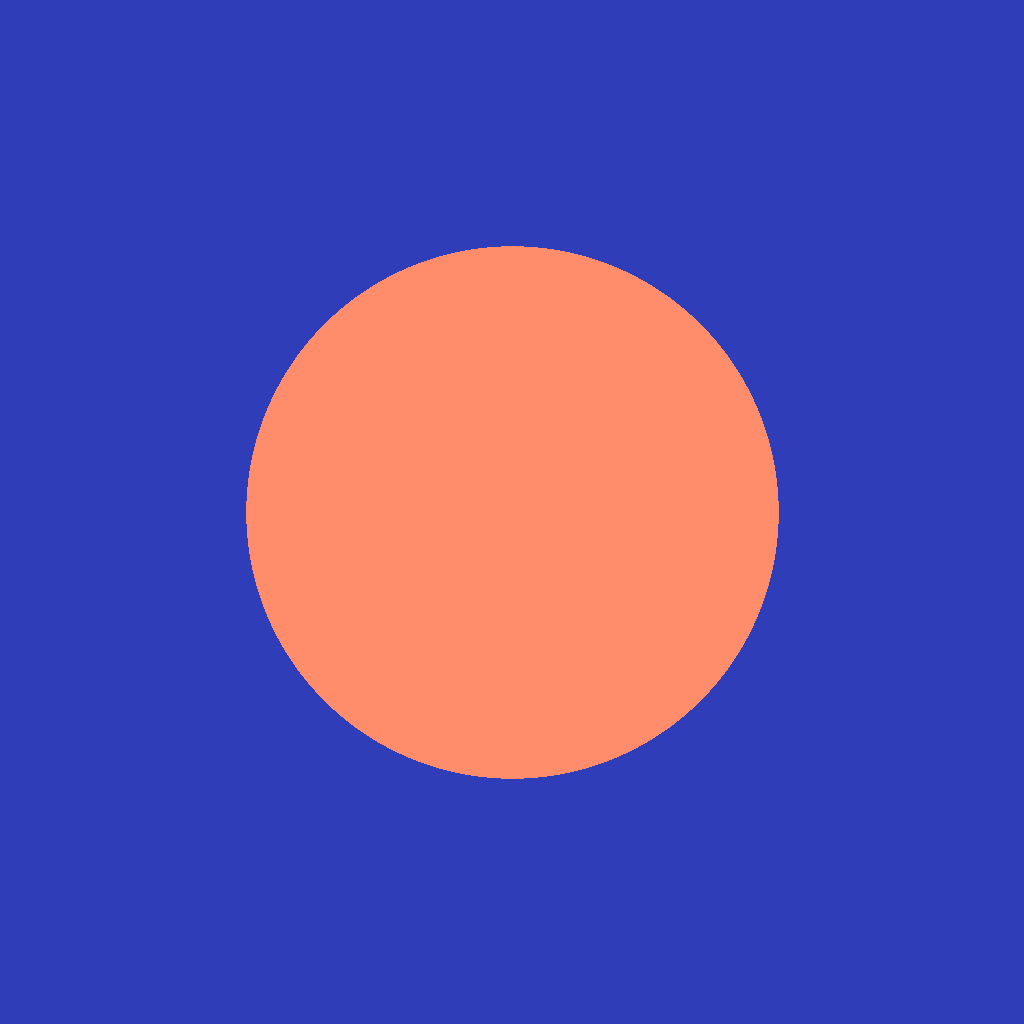
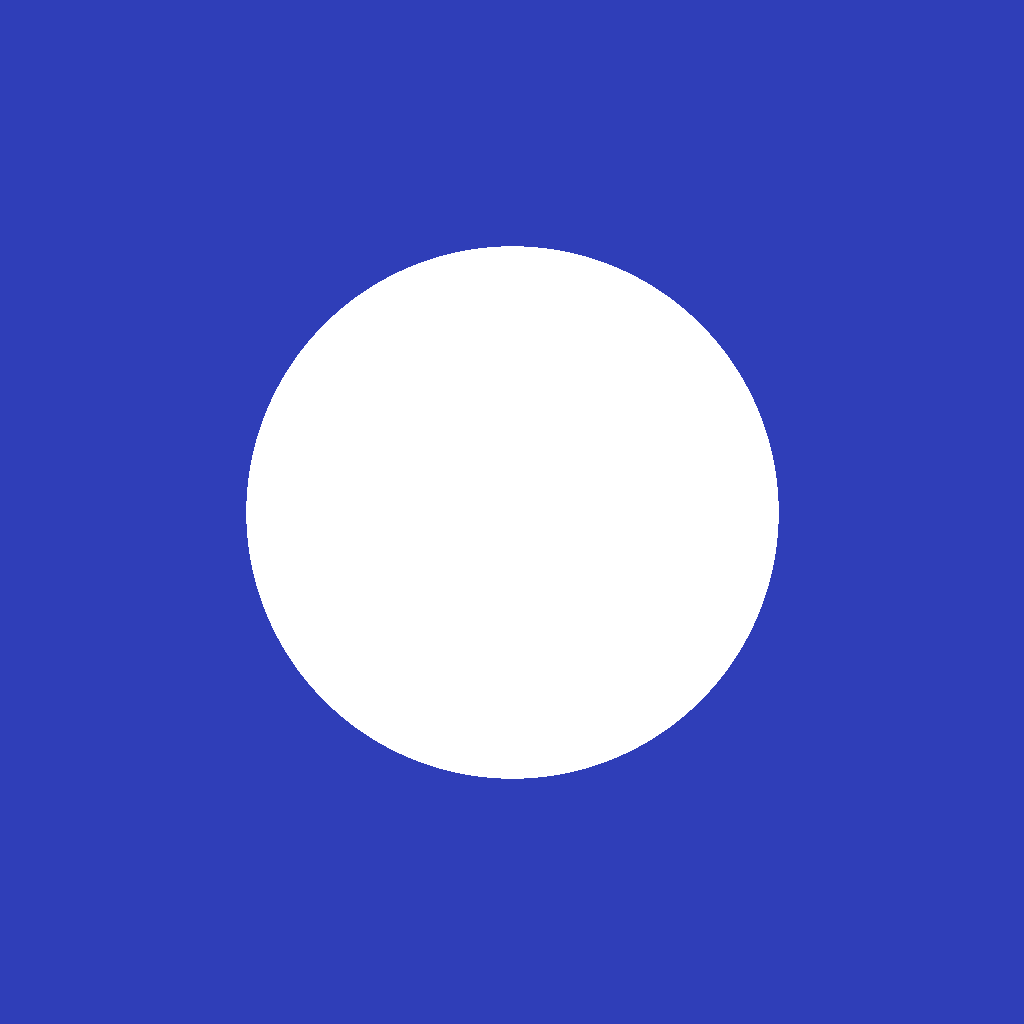
[style] [0.56.4] (finanzas): acento blanco (tinta en el tema claro) en lugar del coral
Decisión del propietario (2026-11-16, docs/owner-rules.md). Oscuro: accent #fbf9f4 con on-accent #141311. Claro: contraparte
monocromática, accent #141311 con on-accent #ffffff. Serie 2 de las gráficas en gris neutro (#767676 / #8a8a8a). Android: el
«+» de los iconos vuelve a blanco y la pantalla de arranque tiene versión oscura propia. negative, on-negative y la serie 7
no cambian.

Claude-Session: https://claude.ai/code/session_01QHXDsMJdkPo78xJLahC469

Changed region(s): [[0.2188, 0.2188, 0.7812, 0.7812]]

diff --git a/src/ui/tokens.css b/src/ui/tokens.css
@@ -1,5 +1,5 @@
 /*
- * Tokens de diseño «Añil y Coral» (docs/design-spec.md §4). Valores EXACTOS de la especificación; `tokens.test.ts` y
+ * Tokens de diseño «Añil y Blanco» (docs/design-spec.md §4). Valores EXACTOS de la especificación; `tokens.test.ts` y
  * `contrast.test.ts` los comparan con ella. 1 dp = 1 px CSS; los tamaños de texto van en rem para que escalen (§6).
  *
  * Tema: sigue al sistema (`prefers-color-scheme`) y se puede fijar con `data-theme="light|dark"` en <html>.
@@ -23,7 +23,7 @@
   --color-on-primary: #ffffff;
   --color-primary-container: #e3e6fb;
   --color-on-primary-container: #1c2580;
-  --color-accent: #ae2d18;
+  --color-accent: #141311;
   --color-on-accent: #ffffff;
   --color-positive: #12704a;
   --color-positive-container: #ddf3e7;
@@ -41,7 +41,7 @@
 
   /* Paleta categórica de gráficas (8 series) */
   --chart-1: #2f3eb8;
-  --chart-2: #ae2d18;
+  --chart-2: #767676;
   --chart-3: #0e7c86;
   --chart-4: #8a5a00;
   --chart-5: #6d3fb5;
@@ -121,7 +121,7 @@
     --color-on-primary: #121a66;
     --color-primary-container: #2a3170;
     --color-on-primary-container: #dde0ff;
-    --color-accent: #ff8d6c;
+    --color-accent: #fbf9f4;
     --color-on-accent: #141311;
     --color-positive: #5fd39a;
     --color-positive-container: #0f3d29;
@@ -137,7 +137,7 @@
     --color-info-container: #12335a;
     --color-on-info-container: #cfe4fb;
     --chart-1: #a5aeff;
-    --chart-2: #ff8d6c;
+    --chart-2: #8a8a8a;
     --chart-3: #5fd0da;
     --chart-4: #f2c14e;
     --chart-5: #c9a6ff;
@@ -166,7 +166,7 @@
   --color-on-primary: #121a66;
   --color-primary-container: #2a3170;
   --color-on-primary-container: #dde0ff;
-  --color-accent: #ff8d6c;
+  --color-accent: #fbf9f4;
   --color-on-accent: #141311;
   --color-positive: #5fd39a;
   --color-positive-container: #0f3d29;
@@ -182,7 +182,7 @@
   --color-info-container: #12335a;
   --color-on-info-container: #cfe4fb;
   --chart-1: #a5aeff;
-  --chart-2: #ff8d6c;
+  --chart-2: #8a8a8a;
   --chart-3: #5fd0da;
   --chart-4: #f2c14e;
   --chart-5: #c9a6ff;

diff --git a/mobile/src/theme/tokens.ts b/mobile/src/theme/tokens.ts
@@ -1,5 +1,5 @@
 /**
- * Tokens de diseño «Añil y Coral» de la web (`src/ui/tokens.css`, docs/design-spec.md §4), en valores que React Native entiende.
+ * Tokens de diseño «Añil y Blanco» de la web (`src/ui/tokens.css`, docs/design-spec.md §4), en valores que React Native entiende.
  * `tokens.test.ts` los compara con el CSS: si la web cambia un color y aquí no, falla. Los egresos NO se pintan de rojo:
  * `negative` es solo para vencido, saldo bajo cero y error (§4.1).
  */
@@ -17,7 +17,7 @@ export const lightColors = {
   onPrimary: "#ffffff",
   primaryContainer: "#e3e6fb",
   onPrimaryContainer: "#1c2580",
-  accent: "#ae2d18",
+  accent: "#141311",
   onAccent: "#ffffff",
   positive: "#12704a",
   positiveContainer: "#ddf3e7",
@@ -33,7 +33,7 @@ export const lightColors = {
   infoContainer: "#e0ecfa",
   onInfoContainer: "#17497f",
   chart1: "#2f3eb8",
-  chart2: "#ae2d18",
+  chart2: "#767676",
   chart3: "#0e7c86",
   chart4: "#8a5a00",
   chart5: "#6d3fb5",
@@ -56,7 +56,7 @@ export const darkColors = {
   onPrimary: "#121a66",
   primaryContainer: "#2a3170",
   onPrimaryContainer: "#dde0ff",
-  accent: "#ff8d6c",
+  accent: "#fbf9f4",
   onAccent: "#141311",
   positive: "#5fd39a",
   positiveContainer: "#0f3d29",
@@ -72,7 +72,7 @@ export const darkColors = {
   infoContainer: "#12335a",
   onInfoContainer: "#cfe4fb",
   chart1: "#a5aeff",
-  chart2: "#ff8d6c",
+  chart2: "#8a8a8a",
   chart3: "#5fd0da",
   chart4: "#f2c14e",
   chart5: "#c9a6ff",

diff --git a/mobile/app.config.ts b/mobile/app.config.ts
@@ -50,7 +50,7 @@ const config: ExpoConfig = {
     "expo-secure-store",
     // Canal por defecto de los avisos de FCM: el de vencimientos. Los cinco canales se crean al abrir la app (src/features/notifications/native.ts).
     ["expo-notifications", { defaultChannel: "due" }],
-    ["expo-splash-screen", { image: "./assets/splash-icon.png", imageWidth: 160, backgroundColor: "#f6f5f1", dark: { backgroundColor: "#111318" } }],
+    ["expo-splash-screen", { image: "./assets/splash-icon.png", imageWidth: 160, backgroundColor: "#f6f5f1", dark: { image: "./assets/splash-icon-dark.png", backgroundColor: "#111318" } }],
     ["expo-local-authentication", { faceIDPermission: false }],
     ["expo-build-properties", { android: { usesCleartextTraffic: false, minSdkVersion: 26 } }],
   ],

diff --git a/src/ui/contrast.test.ts b/src/ui/contrast.test.ts
@@ -31,7 +31,7 @@ const published: [string, string, number, number][] = [
   ["primary", "surface", 8.39, 8.11],
   ["on-primary", "primary", 8.39, 7.4],
   ["on-primary-container", "primary-container", 10.44, 9.13],
-  ["on-accent", "accent", 6.59, 8.2],
+  ["on-accent", "accent", 18.57, 17.65],
   ["positive", "surface", 6.1, 9.05],
   ["on-positive-container", "positive-container", 7.93, 8.92],
   ["on-negative", "negative", 7.92, 8.92],

diff --git a/docs/design-spec.md b/docs/design-spec.md
@@ -8,7 +8,7 @@ horaria `America/Bogota`, semana que empieza el lunes. Este documento es una esp
 - **Usuario**: uno solo con 2FA; el modelo queda listo para «hogar» (todo registro cuelga de un `Household`).
 - **Referencias visuales del propietario** («Paier», tableros de patrimonio, pronóstico y «Prognose»): solo referencia. De ellas se
   toman tres patrones, no su aspecto: tabla de pronóstico con real frente a proyectado, corte necesario frente a discrecional y selector de
-  escenario. La identidad visual de este documento («Añil y Coral», §4) es propia.
+  escenario. La identidad visual de este documento («Añil y Blanco», §4) es propia.
 
 Índice: 0 Criterio rector · 1 Arquitectura de información · 2 Resumen sin scroll · 3 Pantallas y flujos · 4 Tokens · 5 Componentes ·
 6 Accesibilidad · 7 Glosario y reglas de negocio · 8 Modelo de dominio · 9 Cortes de entrega (v1, v2, v3) · 10 Preguntas abiertas.
@@ -999,9 +999,9 @@ sesión vencida (vuelve al destino tras ingresar).
 
 ---
 
-## 4. Tokens de diseño — identidad «Añil y Coral»
+## 4. Tokens de diseño — identidad «Añil y Blanco»
 
-Concepto: papel cálido y tinta añil para lo estructural, coral solo para la acción de crear («+»), y semánticos reservados para estados
+Concepto: papel cálido y tinta añil para lo estructural, blanco (en el tema claro, su contraparte, la tinta casi negra) solo para la acción de crear («+»), y semánticos reservados para estados
 financieros. Sin tarjeta-héroe oscura ni degradados: la jerarquía la dan el tamaño de la cifra y el espacio. Los contrastes de la última
 columna están calculados (WCAG 2.1) sobre el fondo indicado.
 
@@ -1021,8 +1021,8 @@ columna están calculados (WCAG 2.1) sobre el fondo indicado.
 | `primary` (añil) | `#2F3EB8` | `#A5AEFF` | Acciones, enlaces, progreso | 8,39 / 8,11 |
 | `on-primary` | `#FFFFFF` | `#121A66` | Texto sobre `primary` | 8,39 / 7,40 |
 | `primary-container` / `on-…` | `#E3E6FB` / `#1C2580` | `#2A3170` / `#DDE0FF` | Selección, ficha activa | 10,44 / 9,13 |
-| `accent` (coral) | `#AE2D18` | `#FF8D6C` | Solo el «+» y la marca | — |
-| `on-accent` | `#FFFFFF` | `#141311` | Icono sobre `accent` | 6,59 / 8,20 |
+| `accent` (blanco; tinta en claro) | `#141311` | `#FBF9F4` | Solo el «+» y la marca | — |
+| `on-accent` | `#FFFFFF` | `#141311` | Icono sobre `accent` | 18,57 / 17,65 |
 | `positive` | `#12704A` | `#5FD39A` | Ingreso, pagado, al día | 6,10 / 9,05 |
 | `positive-container` / `on-…` | `#DDF3E7` / `#0C5236` | `#0F3D29` / `#A6EBC8` | Fondos de éxito | 7,93 / 8,92 |
 | `negative` | `#9A1D4B` | `#FF93B4` | Vencido, saldo negativo, error | 7,92 / 8,10 |
@@ -1039,7 +1039,7 @@ rótulo directo o trama, nunca solo color:
 | Serie | Claro | Oscuro |
 |---|---|---|
 | 1 añil | `#2F3EB8` | `#A5AEFF` |
-| 2 coral | `#AE2D18` | `#FF8D6C` |
+| 2 gris | `#767676` | `#8A8A8A` |
 | 3 turquesa | `#0E7C86` | `#5FD0DA` |
 | 4 ocre | `#8A5A00` | `#F2C14E` |
 | 5 violeta | `#6D3FB5` | `#C9A6FF` |

diff --git a/docs/owner-rules.md b/docs/owner-rules.md
@@ -158,3 +158,8 @@ Dos preguntas del propietario sobre las tarjetas y los créditos: «¿ya se tien
    lado a lado, mes a mes y con la más barata marcada, más las preguntas al revés (¿cuánto para no pagar intereses? ¿para terminar en N meses? ¿en cuántas cuotas para que no pase de X?). Crédito: solo la cuota frente a abonar X (reducir plazo o cuota) y «¿cuánto abonar para terminar en N cuotas?».
    Cada respuesta lista sus **supuestos** (no compras nada nuevo, pagas en la fecha de pago, la tasa vigente en cada corte, el banco acepta diferir) y avisa si la tasa que escribes supera la usura que registraste.
 * Contrato: `core/api/openapi-fms.yaml` sincronizado con el backend.
+
+Decisión del propietario (2026-11-16): el acento de la interfaz no es rosado ni coral sino **blanco**. En el tema oscuro, `accent` es
+blanco cálido (`#FBF9F4`) con `on-accent` en tinta (`#141311`); en el claro, donde el blanco no se distingue del fondo, su contraparte
+monocromática: tinta casi negra (`#141311`) con `on-accent` blanco. La serie 2 de las gráficas es un gris neutro. Los semánticos
+(`negative` carmesí, `positive` verde) no cambian.
